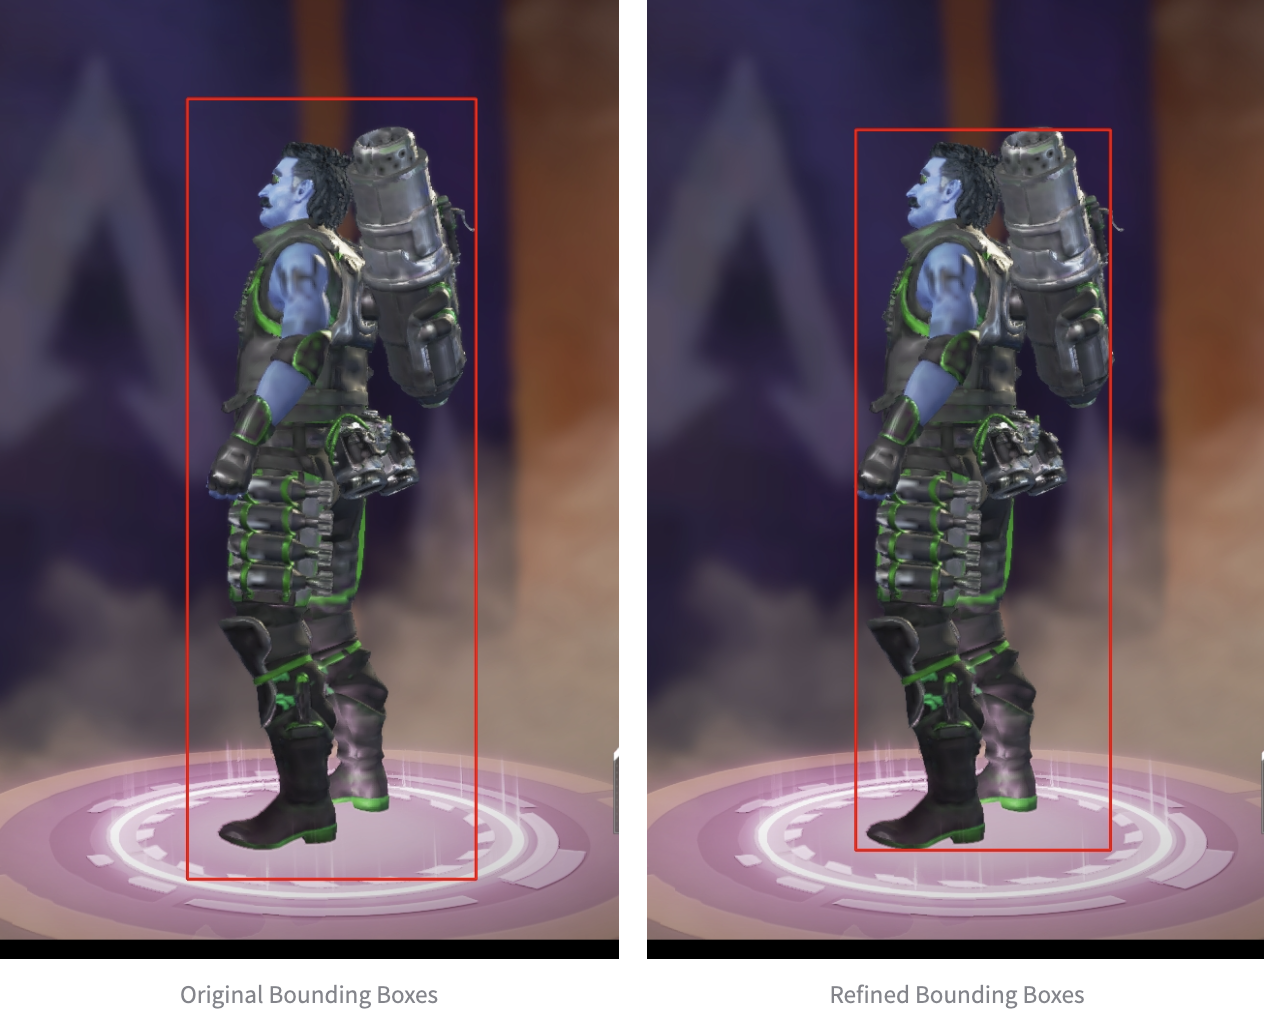
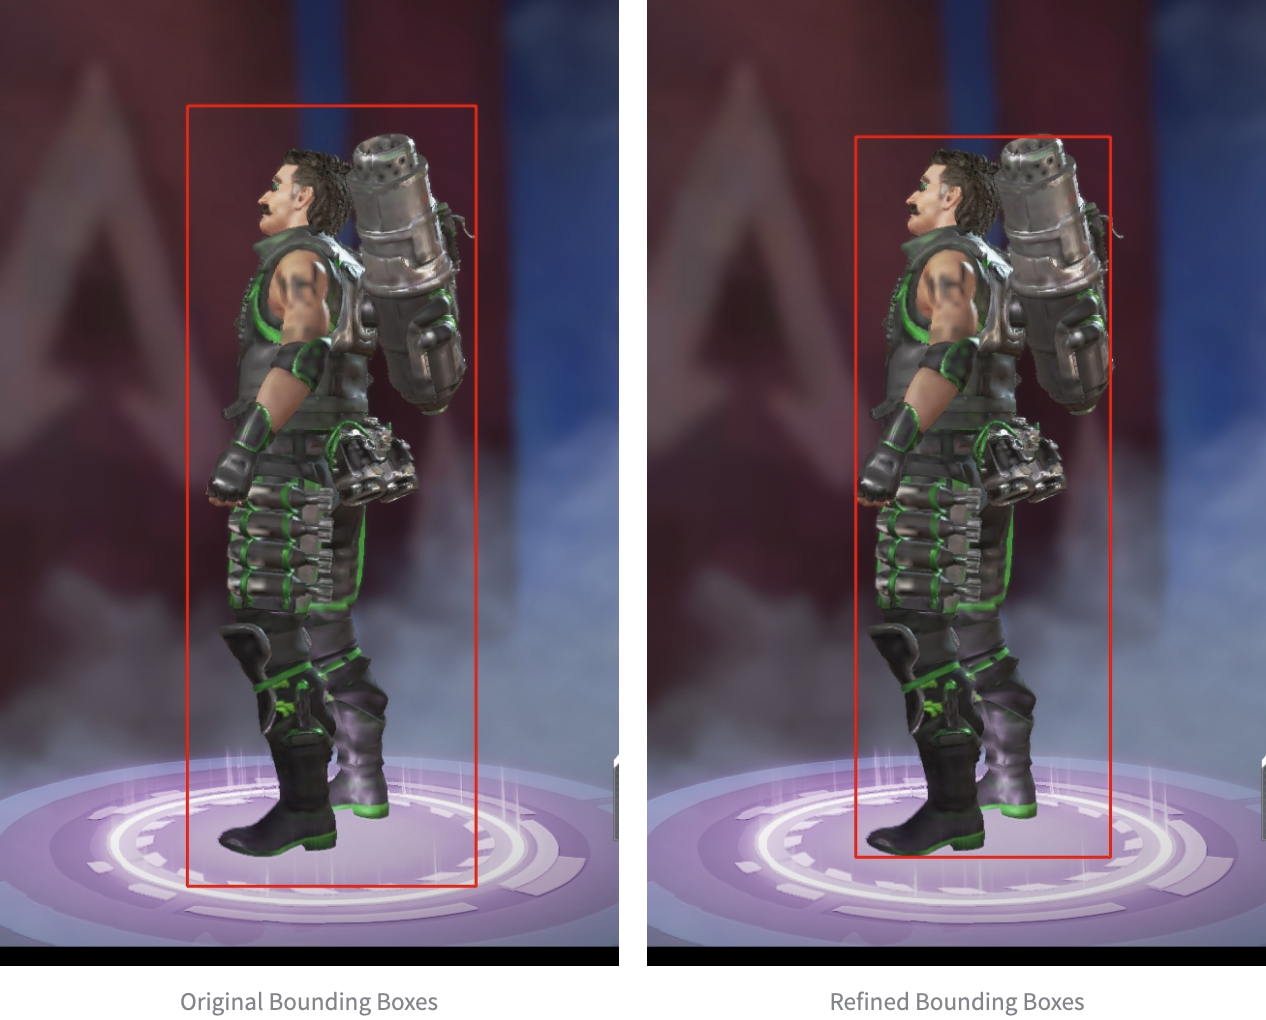
demo bgr 2 rgb

diff --git a/utils.py b/utils.py
@@ -75,7 +75,7 @@ def find_minimal_rectangles(masks):
 
 # Function to draw bounding boxes on an image
 def draw_bounding_boxes(image_path, labels):
-    image = cv2.imread(image_path)
+    image = cv2.cvtColor(cv2.imread(image_path), cv2.COLOR_BGR2RGB)
     for label in labels:
         _, x_center, y_center, width, height = label
         x_min, y_min, x_max, y_max = yolo_to_coords((x_center, y_center, width, height), image.shape)
